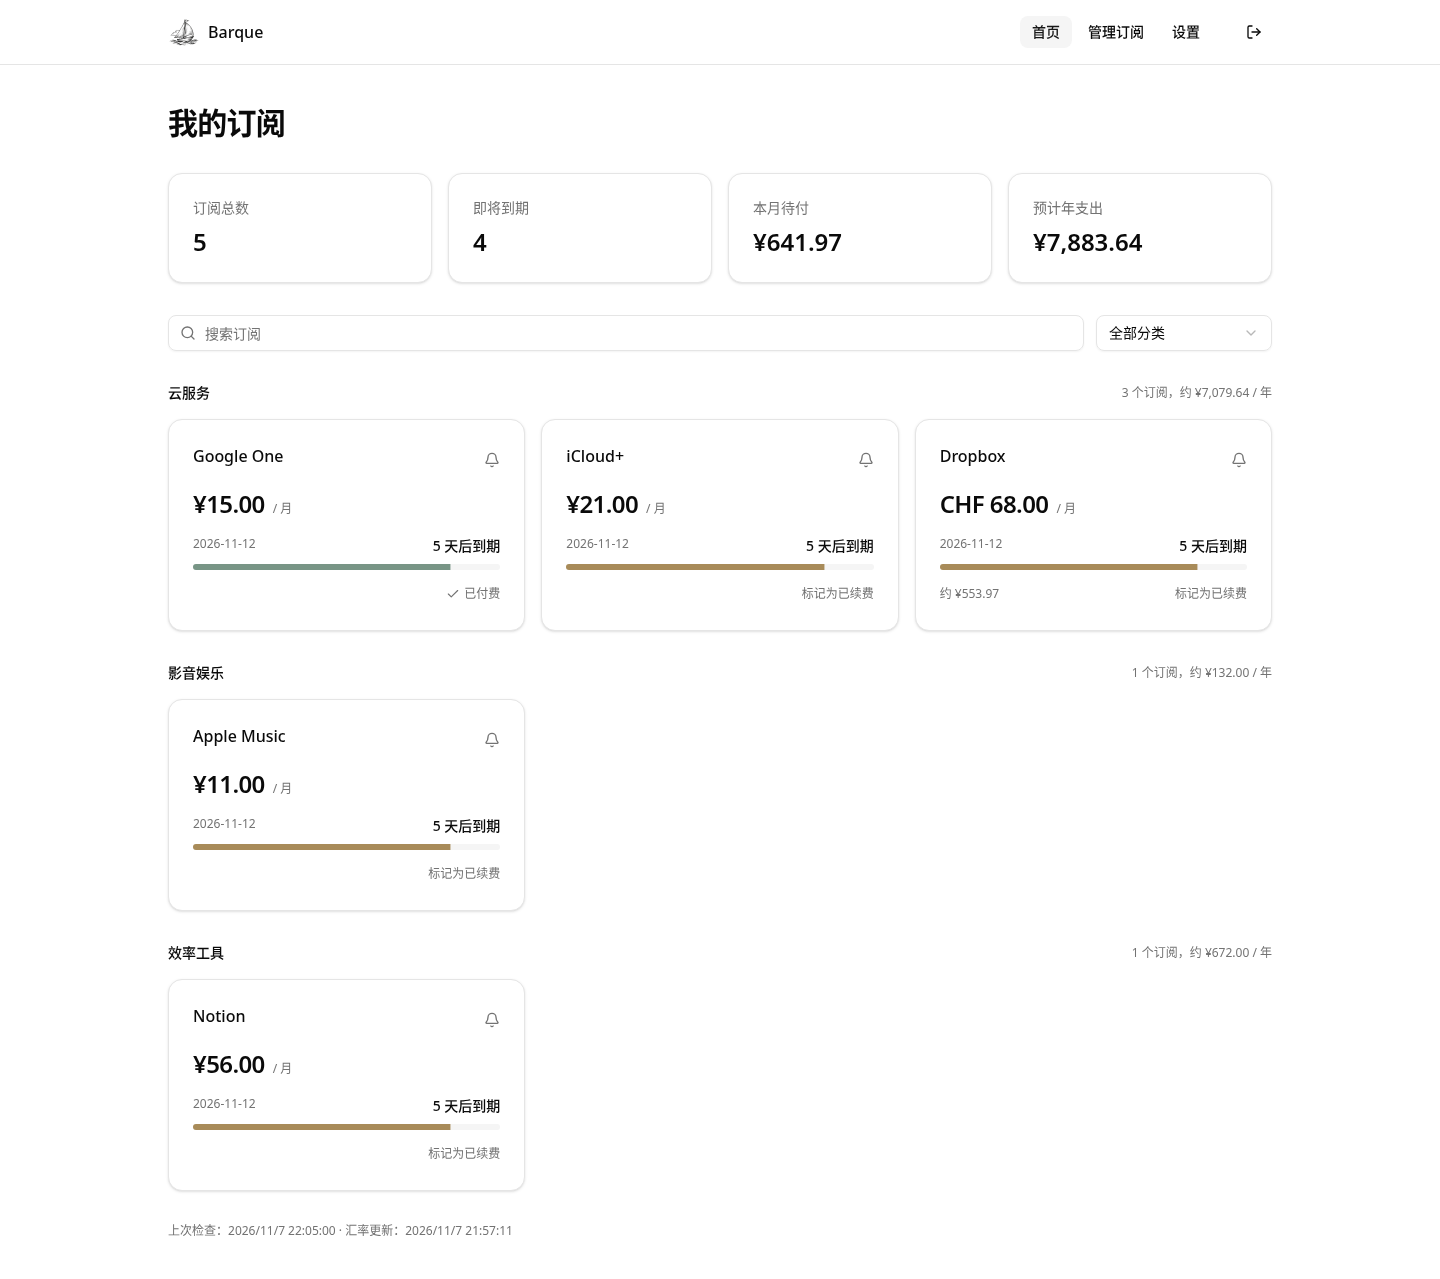
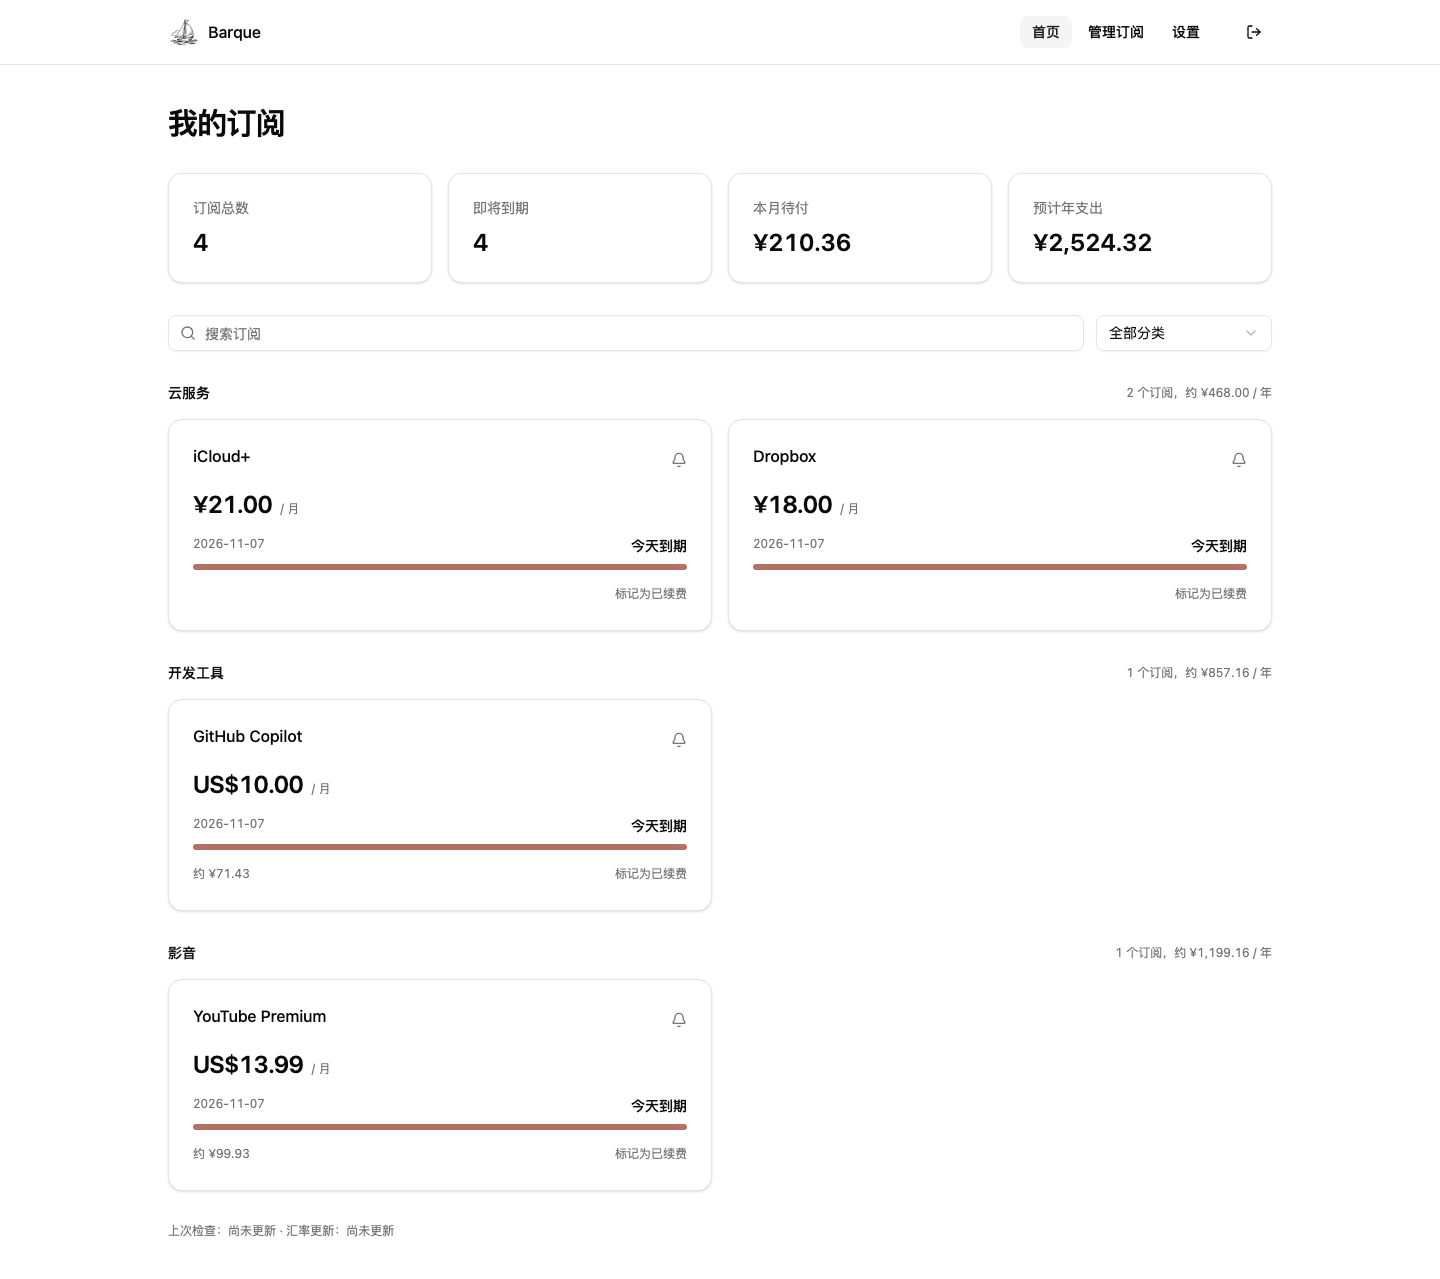
Use two-column subscription layout and refresh screenshots

diff --git a/frontend/src/Settings.tsx b/frontend/src/Settings.tsx
@@ -55,7 +55,7 @@ export function SettingsPage() {
         <Skeleton className="h-80 w-full rounded-xl" />
       ) : (
         settings && (
-          <section className="grid gap-4 lg:grid-cols-3">
+          <section>
             <SettingsForm
               initial={settings}
               onSaved={(value) => {
@@ -148,7 +148,7 @@ function SettingsForm({
   return (
     <form
       onSubmit={(event) => void save(event)}
-      className="space-y-6 lg:col-span-2"
+      className="space-y-6"
     >
       {error && (
         <Alert variant="destructive">

diff --git a/frontend/src/Subscriptions.tsx b/frontend/src/Subscriptions.tsx
@@ -241,7 +241,7 @@ export function SubscriptionsPage() {
                     {group.subscription_items.length} 个订阅，约 {money(group.yearly_estimated_cny)} / 年
                   </span>
                 </div>
-                <div className="grid gap-4 md:grid-cols-2 lg:grid-cols-3">
+                <div className="grid gap-4 md:grid-cols-2">
                   {group.subscription_items.map((item) => (
                     <Card key={item.subscription_id} className="gap-3">
                       <CardHeader className="grid-rows-1">
